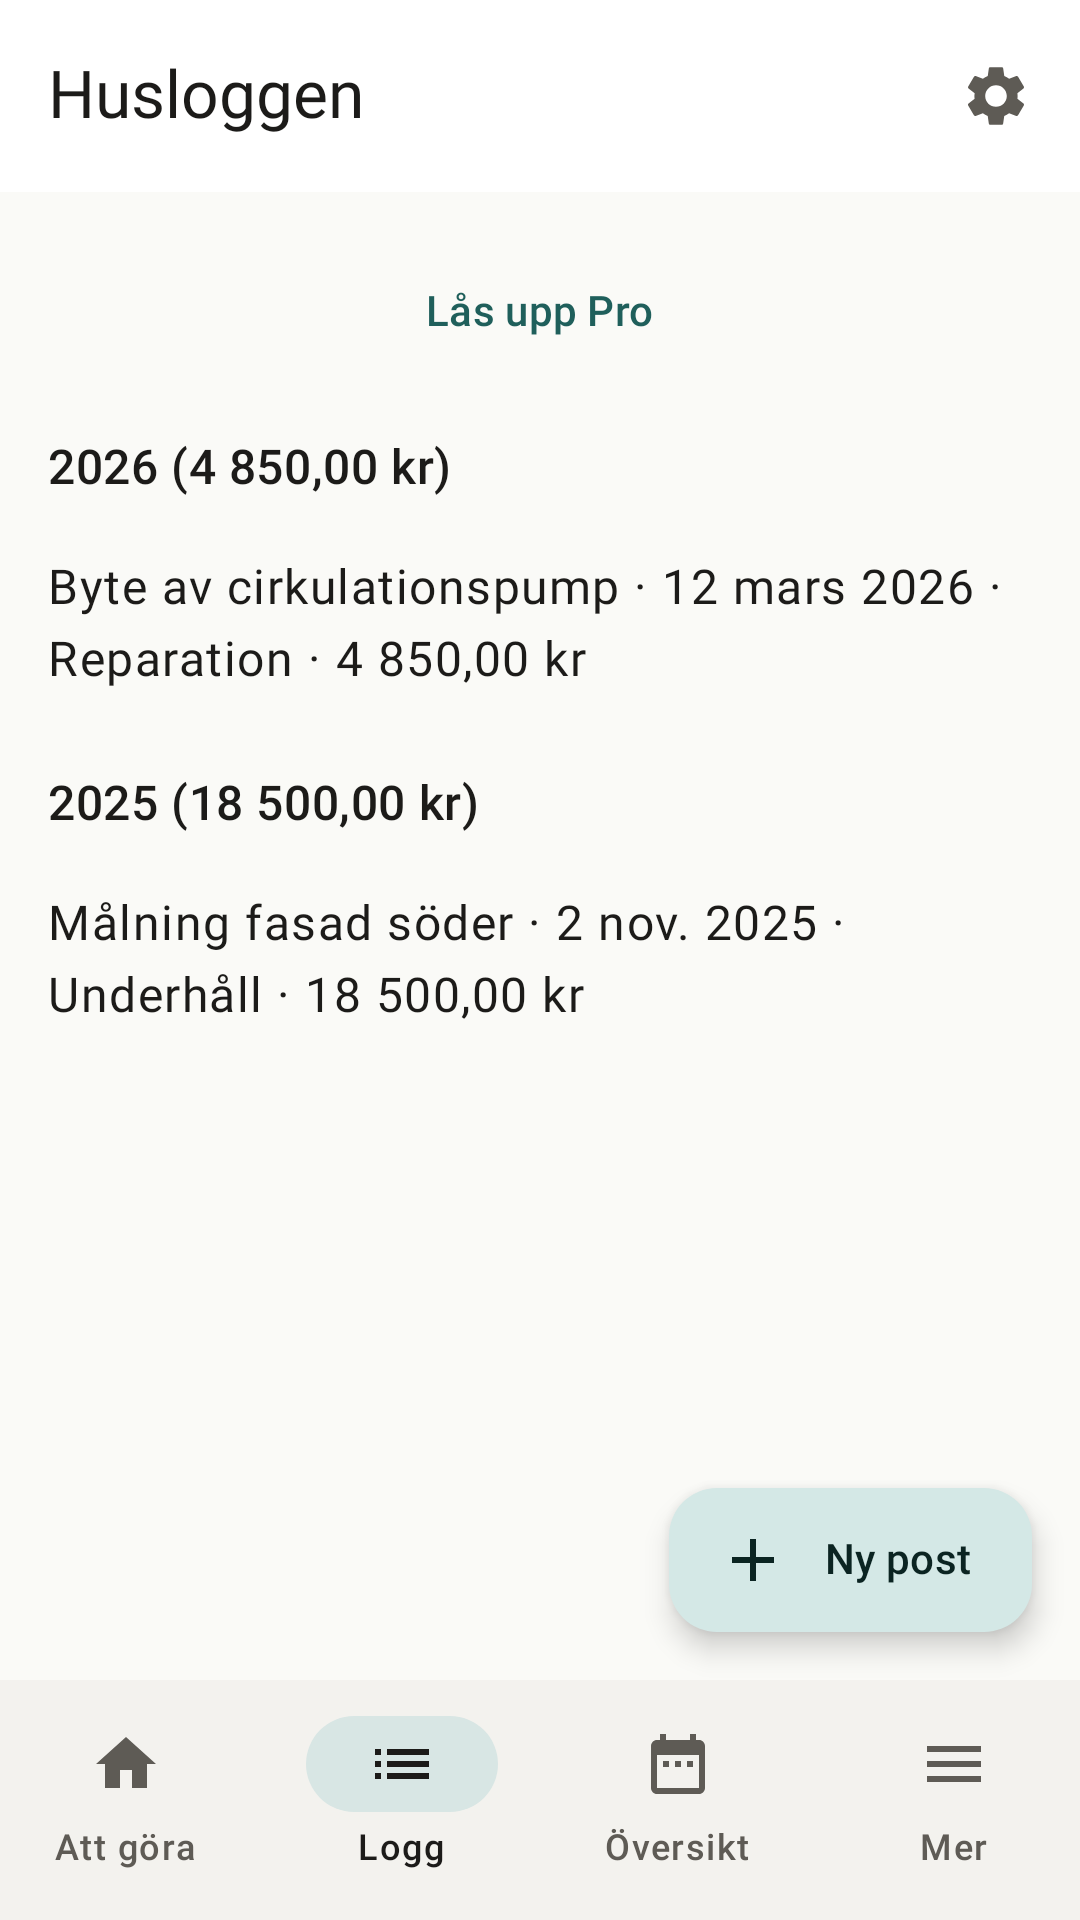
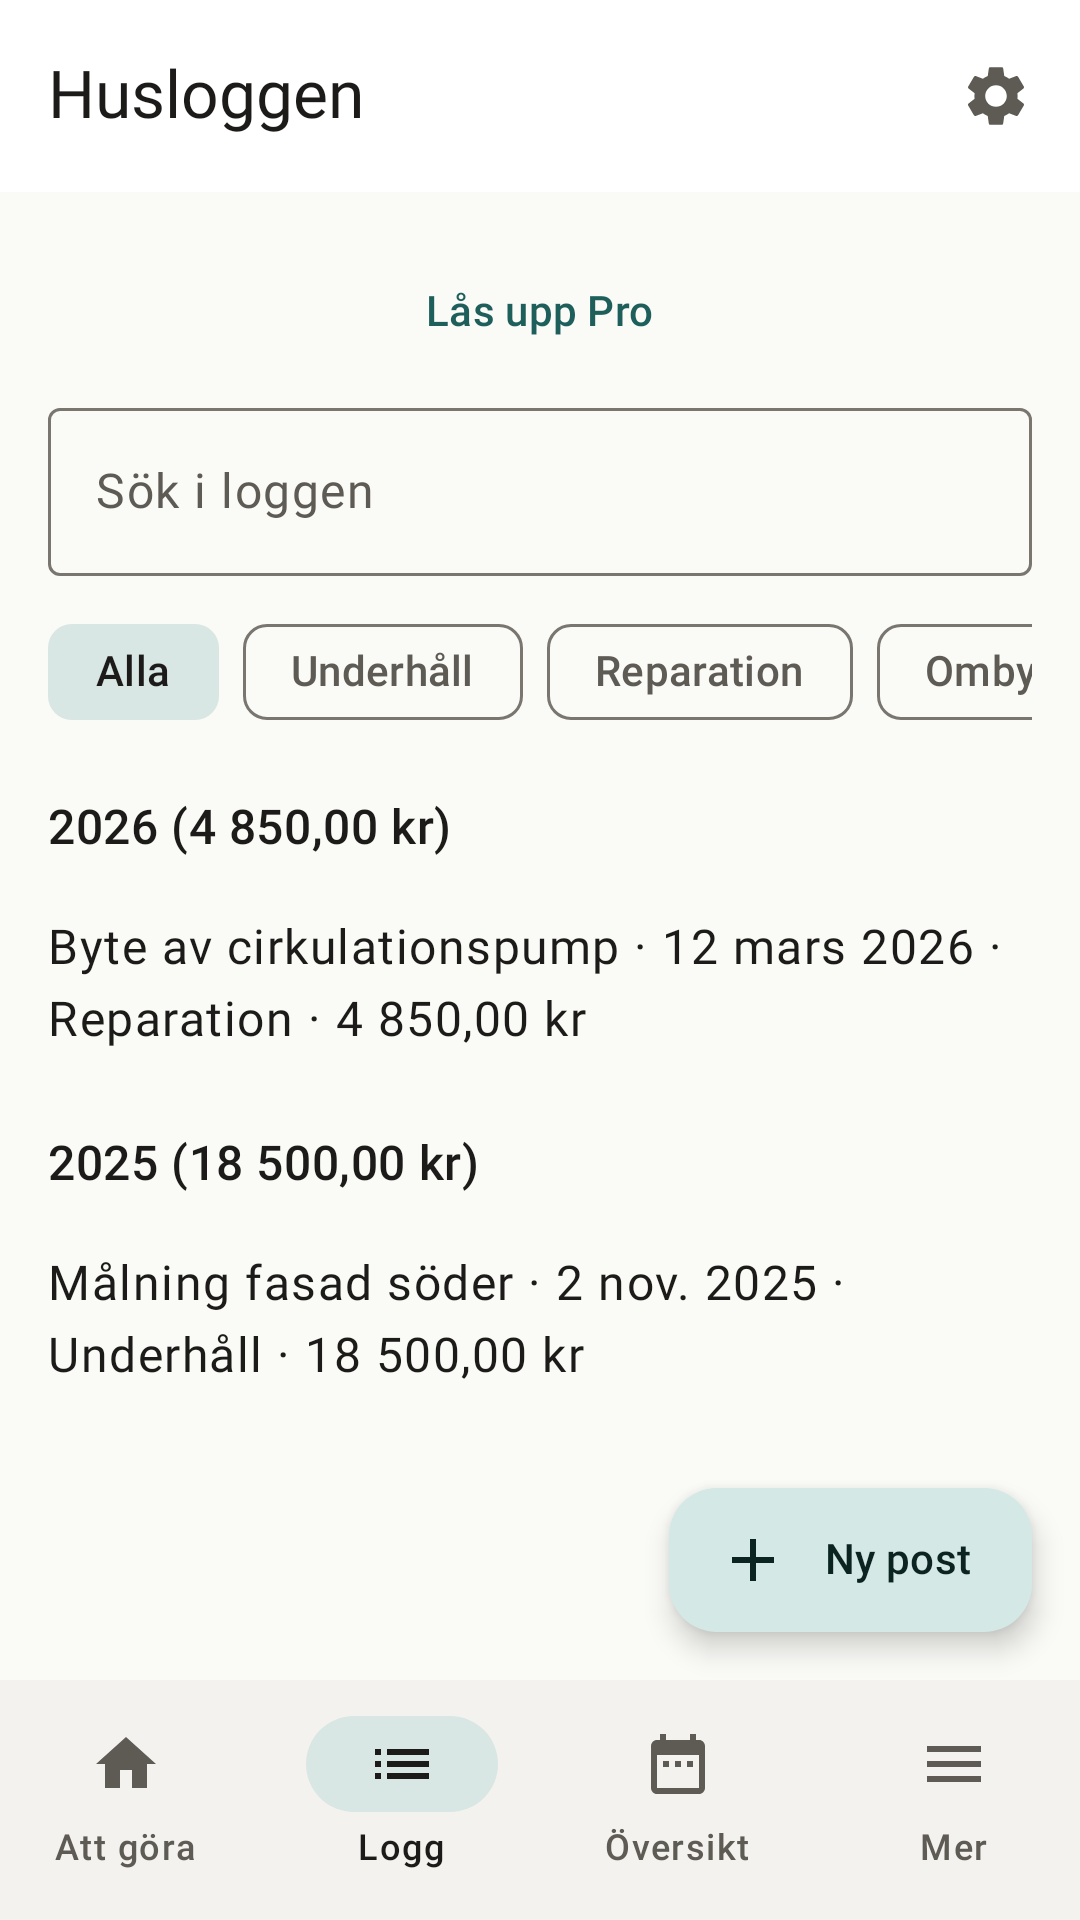
Husloggen: uppdatera butiksmaterial efter nya funktioner
Synka Play-texter (sv/en), data safety, integritetspolicy och PUBLICERA
med appens beteende: flera bostäder utan gräns, widget, Kommande år,
mätprognos, sök/filter och korrekt Pro-gräns (15 loggposter).

Omgenererade Roborazzi-bilder som failade verify (logg, översikt, Pro-dialog).

diff --git a/husloggen/butik/data-safety.md b/husloggen/butik/data-safety.md
@@ -1,12 +1,12 @@
 # Data safety — Husloggen (Play Console)
 
-Svar att fylla i i Google Play Console, med motivering utifrån manifestet för `:husloggen`, modulberoenden (`:karna`) och appens beteende. Skrivet av Claude 2026-10-21. Appnamnet i butiken är preliminärt.
+Svar att fylla i i Google Play Console, med motivering utifrån manifestet för `:husloggen`, modulberoenden (`:karna`) och appens beteende. Uppdaterad 2026-10-25. Appnamnet i butiken är preliminärt.
 
 ## Samlad bild
 
 | Källa | Vad den innebär |
 |-------|-----------------|
-| `husloggen/src/main/AndroidManifest.xml` | `POST_NOTIFICATIONS` för lokala påminnelser. `INTERNET` och `ACCESS_NETWORK_STATE` **tas bort** (`tools:node="remove"`). |
+| `husloggen/src/main/AndroidManifest.xml` | `POST_NOTIFICATIONS` för lokala påminnelser. Hemskärmswidget (`KommandeWidget`) läser uppgifter lokalt och öppnar appen vid tryck. `INTERNET` och `ACCESS_NETWORK_STATE` **tas bort** (`tools:node="remove"`). |
 | `:karna` / Play Billing | Google Play Billing Library använder Play Store på enheten för engångsköpet Pro. Ingen egen server finns. |
 | Appdata | Bostäder, uppgifter, loggposter, bilder, dokument, mätare och inställningar lagras lokalt (Room, DataStore, appens privata filer). Export och säkerhetskopia sker **endast** när användaren själv sparar en fil eller väljer en mapp för automatisk säkerhetskopia. |
 
@@ -48,7 +48,8 @@ Markeras **inte** som insamlad, eftersom den aldrig lämnar enheten till utveckl
 | Mätare och avläsningar | Förbrukning | Nej |
 | Planerade kostnader | Översikt framåt | Nej |
 | Inställningar (påminnelser, säkerhetskopia, tema) | Appens funktion | Nej |
-| Pro-status | Tar bort gränserna | Nej (verifieras via Play) |
+| Pro-status | Tar bort gränsen på loggposter | Nej (verifieras via Play) |
+| Widget (kommande uppgifter) | Visar lokalt sparade datum | Nej |
 
 ---
 
@@ -61,7 +62,7 @@ Markeras **inte** som insamlad, eftersom den aldrig lämnar enheten till utveckl
 | `WAKE_LOCK`, `RECEIVE_BOOT_COMPLETED`, `FOREGROUND_SERVICE` | WorkManager (påminnelser, automatisk säkerhetskopia), via sammanslaget manifest | Schemaläggning på enheten |
 | (ingen `INTERNET`) | Medvetet borttagen | Appen kan inte skicka något själv |
 
-Ingen kamera- eller lagringsbehörighet: bilder via systemets fotoväljare och kamera, filer via systemets filväljare (Storage Access Framework). Ingen platsbehörighet.
+Ingen kamera- eller lagringsbehörighet: bilder via systemets fotoväljare och kamera, filer via systemets filväljare (Storage Access Framework). Ingen platsbehörighet. Widgeten behöver ingen extra behörighet och skickar inget nätverksdata.
 
 ---
 

diff --git a/husloggen/butik/integritetspolicy-sv.md b/husloggen/butik/integritetspolicy-sv.md
@@ -1,6 +1,6 @@
 # Integritetspolicy — Husloggen
 
-Senast uppdaterad: 2026-10-21
+Senast uppdaterad: 2026-10-25
 
 Husloggen utvecklas av TM Connect. Kontakt: [kontaktadress läggs in vid publicering].
 
@@ -17,7 +17,8 @@ Följande sparas bara lokalt på din telefon, i appens eget utrymme:
 - Återkommande uppgifter och planerade kostnader.
 - Mätare och avläsningar.
 - Kvitton och bilder som du fotar eller väljer, och dokument (till exempel manualer och ritningar) som du lägger till.
-- Inställningar, till exempel påminnelser och intervall för säkerhetskopia.
+- Inställningar, till exempel påminnelser, valt tema och intervall för säkerhetskopia.
+- Hemskärmswidgeten visar de närmaste uppgifterna från samma lokala data; den skickar inget till oss.
 
 ## När data lämnar telefonen
 

diff --git a/husloggen/butik/integritetspolicy-en.md b/husloggen/butik/integritetspolicy-en.md
@@ -1,6 +1,6 @@
 # Privacy policy — Husloggen (House Log)
 
-Last updated: 2026-10-21
+Last updated: 2026-10-25
 
 Husloggen is developed by TM Connect. Contact: [contact address added at publication].
 
@@ -17,7 +17,8 @@ The following is stored only locally on your phone, in the app's private storage
 - Recurring tasks and planned costs.
 - Meters and readings.
 - Receipts and photos you take or pick, and documents (such as manuals and drawings) you add.
-- Settings, such as reminders and the backup interval.
+- Settings, such as reminders, theme and the backup interval.
+- The home-screen widget shows the next tasks from the same local data; it does not send anything to us.
 
 ## When data leaves the phone
 

diff --git a/husloggen/butik/README.md b/husloggen/butik/README.md
@@ -15,7 +15,7 @@ Teckengränser och URL-förbud kontrolleras av `ButikTexterTest`.
 
 | Fil / mapp | Storlek | Innehåll |
 |------------|---------|----------|
-| `skarmbilder/sv/` | 1080 × 1920 (porträtt) | Att göra, Logg, formulär, Sammanställning, Pro-dialog |
+| `skarmbilder/sv/` | 1080 × 1920 (porträtt) | Att göra, Logg, formulär, Översikt, Pro-dialog |
 | `skarmbilder/en/` | 1080 × 1920 | Samma skärmar på engelska |
 | `funktionsgrafik-sv.png` | 1024 × 500 | Appnamn och kort rad på svenska (från strängresurser) |
 | `funktionsgrafik-en.png` | 1024 × 500 | Appnamn och kort rad på engelska |
